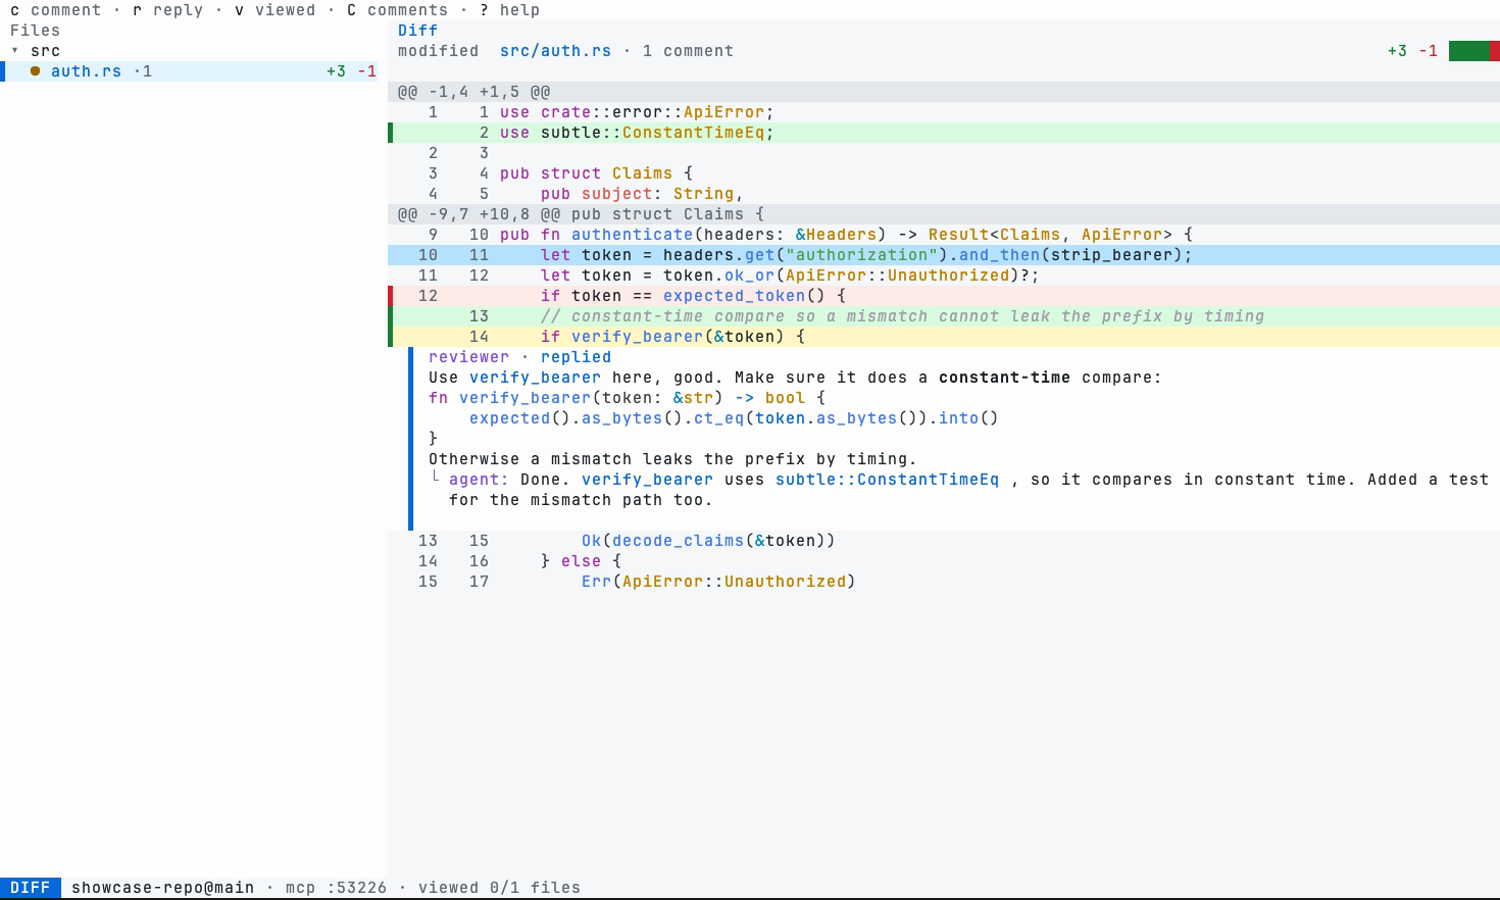
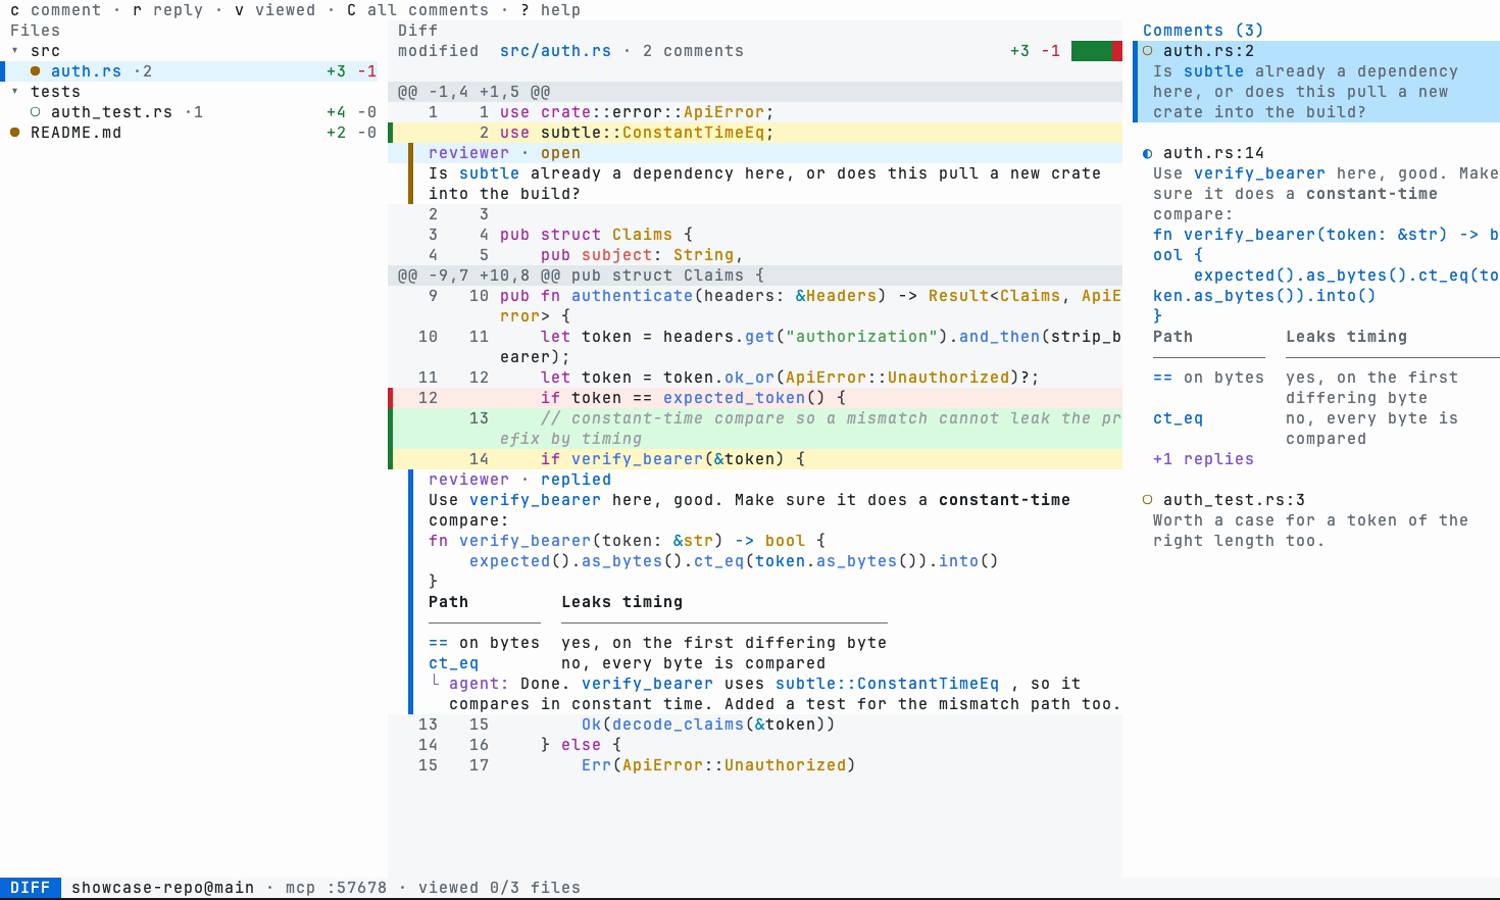
chore: reshoot the theme gallery with the comments sidebar up

diff --git a/AGENTS.md b/AGENTS.md
@@ -42,9 +42,11 @@ crates/diffler/        binary (color-eyre at the top; thiserror for typed errors
 - `just e2e`: PTY end-to-end suite (needs `uv`; CI runs it in a separate job)
 - `just ci`: fmt+clippy+tests gate, must pass before any commit (CI additionally runs msrv, deny, typos, dupes, machete, coverage)
 - `showcase/record.sh`: regenerate `showcase/img/*.png`, one screenshot per theme
-  (needs `vhs`). It seeds a throwaway repo with a review and shoots the diff
-  screen, so rerun it after anything that changes how that screen looks. The
-  README's hero `assets/demo.gif` is hand-recorded and has no script.
+  (needs `vhs`). It seeds a throwaway repo with a three-file review and shoots
+  the review screen with all three panes up, the comments sidebar included, so
+  rerun it after anything that changes how that screen looks. `record.sh --seed`
+  prints the seeded repo and records nothing, for checking the frame first.
+  The README's hero `assets/demo.gif` is hand-recorded and has no script.
 
 ## Rules
 

diff --git a/README.md b/README.md
@@ -259,7 +259,7 @@ diffler config --dump
 Switchable live with `T`, or set `ui.theme`. The
 [gallery](showcase/THEMES.md) shows each one.
 
-![the diff view in catppuccin-mocha: a review comment with the agent's reply threaded under it](showcase/img/catppuccin-mocha.png)
+![the review screen in catppuccin-mocha: the file tree, a diff carrying a comment thread with the agent's reply, and the comments sidebar](showcase/img/catppuccin-mocha.png)
 
 ## Development
 
